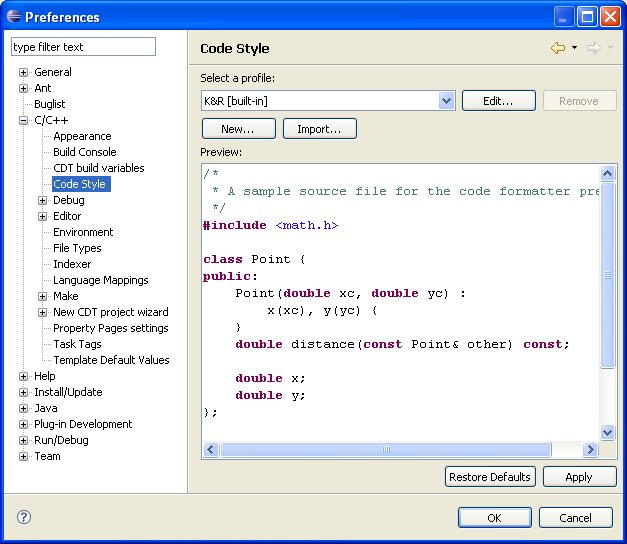
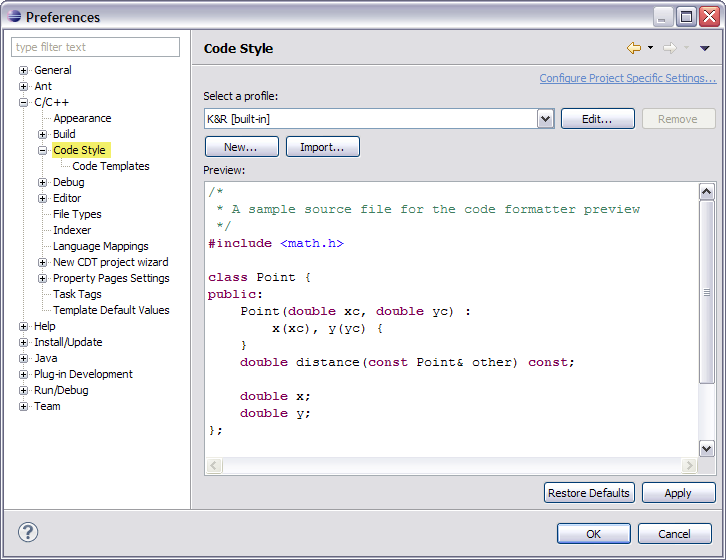
Revised Code Style page to match 7.0

Changed region(s): [[0.0, 0.0, 1.0, 1.0], [0.8485, 0.625, 0.9091, 0.6562]]

diff --git a/doc/org.eclipse.cdt.doc.user/reference/cdt_u_c_code_style_pref.htm b/doc/org.eclipse.cdt.doc.user/reference/cdt_u_c_code_style_pref.htm
@@ -11,50 +11,58 @@
 
 <h1>Code Style preferences</h1>
 
-<p>Use the <strong>Code Style</strong> preference panel to configure you code style profiles for smart typing features, like auto-indentation and formatting. Click <strong>Window &gt; Preferences &gt; C/C++ &gt; Code Style</strong> to make changes.</p>
+<p>Use the <strong>Code Style</strong> preference panel to configure your global code style profiles for smart typing features, like auto-indentation and formatting. Click <strong>Window &gt; Preferences &gt; C/C++ &gt; Code Style</strong> to make changes.</p>
 <p><img src="../images/code_style_preferences.png"  alt="Code Style Preferences"></p>
 <table border="1" cellspacing="0" cellpadding="5" width="600" summary="All options">
 	<thead>
 		<tr>
 			<th>
-			<p>Action</p>
+			<b>Action</b>
 			</th>
 			<th>
-			<p>Description</p>
+			<b>Description</b>
 			</th>
 		</tr>
 	</thead>
 	<tbody>
 		<tr>
-			<td valign="top" width="25%">
-			<p>New...</p>
+			<td valign="top" width="35%">
+			<b>Configure Project Specific Settings...</b>
 			</td>
 			<td valign="top">
-			<p>Shows the dialog to create a new profile. The dialog requires you to enter a name for the new profile. Additionally, you may select a built-in or user-defined existing profile to base your new profile on.</p>
+			Opens the <b>Project Specific Configuration</b> dialog box to select a project to apply code style settings.
 			</td>
 		</tr>
 		<tr>
-			<td valign="top" width="25%">
-			<p>Edit...</p>
+			<td valign="top" width="35%">
+			<b>Edit...</b>
 			</td>
 			<td valign="top">
-			<p>Shows a dialog which displays the settings stored in the active profile. Only user-defined profiles can be modified.</p>
+			Shows a dialog which displays the settings stored in the active profile. Only user-defined profiles can be modified.
 			</td>
 		</tr>
 		<tr>
-			<td valign="top" width="25%">
-			<p>Remove</p>
+			<td valign="top" width="35%">
+			<b>Remove</b>
 			</td>
 			<td valign="top">
-			<p>Removes the selected profile. This action is only available on user-defined profiles.</p>
+			Removes the selected profile. This action is only available on user-defined profiles.
 			</td>
 		</tr>
 		<tr>
-			<td valign="top" width="25%">
-			<p>Import...</p>
+			<td valign="top" width="35%">
+			<b>New...</b>
 			</td>
 			<td valign="top">
-			<p>Imports profiles from the file system.</p>
+			Shows the dialog to create a new profile. The dialog requires you to enter a name for the new profile. Additionally, you may select a built-in or user-defined existing profile to base your new profile on.
+			</td>
+		</tr>
+		<tr>
+			<td valign="top" width="35%">
+			<b>Import...</b>
+			</td>
+			<td valign="top">
+			Imports profiles from the file system.
 			</td>
 		</tr>
 	</tbody>
